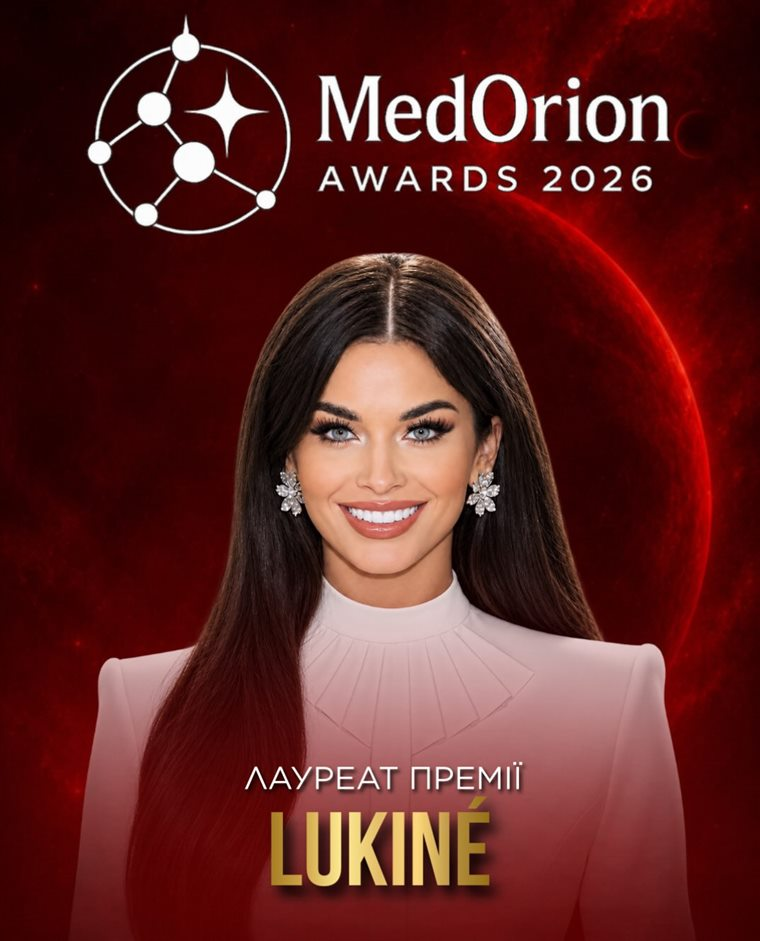
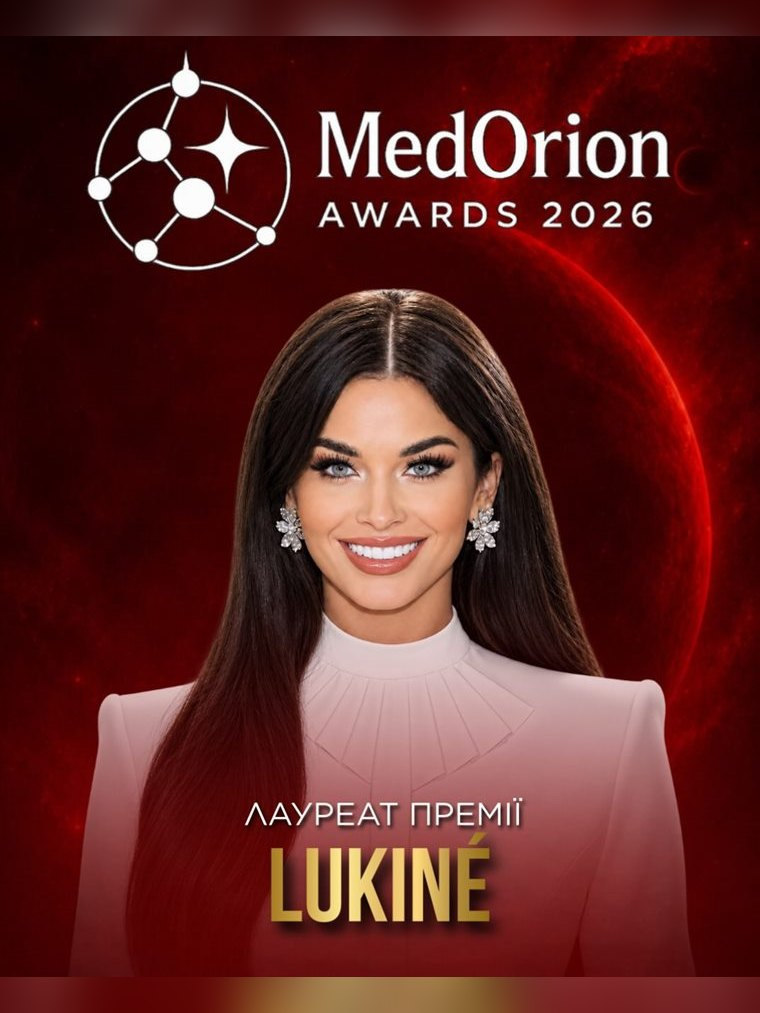
Картки більше не ріжуть імена; Пивоваренко прибрано
Промо-картки мають пропорцію 4:5, а рамка на сайті — 3:4. Різниця
йшла з боків, і в довгих імен, надрукованих на самій картці, зникали
крайні літери: «ЗОЛОТАРЬОВ», «ЧОРНОМОРЕЦ», «РАЄВСЬКИ».

Усі шістнадцять карток (і Ради, і лауреатів) переоформлено під 3:4:
ціла картка лягає всередину без обрізки, а поля згори й знизу
добиваються розмитим збільшенням її ж самої. object-fit тепер не
ріже нічого взагалі.

Тетяну Пивоваренко прибрано: картка, посилання на пост і фото.
Затримки появи решти карток перераховано, щоб не лишилось діри.

diff --git a/index.html b/index.html
@@ -28,7 +28,7 @@
 <link rel="preconnect" href="https://fonts.googleapis.com">
 <link rel="preconnect" href="https://fonts.gstatic.com" crossorigin>
 <link href="https://fonts.googleapis.com/css2?family=Inter:wght@400;500;600;700&display=swap" rel="stylesheet">
-<link rel="stylesheet" href="assets/css/main.css?v=20260901m">
+<link rel="stylesheet" href="assets/css/main.css?v=20260901n">
 
 <script type="application/ld+json">
 {
@@ -608,7 +608,7 @@
     <div class="laureates">
       <article class="lau rv">
         <div class="lau-face" data-key="zolotareva">
-          <img src="assets/img/board/zolotareva.jpg" alt="Валентина Золотарьова" width="760" height="950"
+          <img src="assets/img/board/zolotareva.jpg" alt="Валентина Золотарьова" width="760" height="1013"
                loading="lazy" decoding="async">
         </div>
         <div class="lau-body">
@@ -619,7 +619,7 @@
       </article>
       <article class="lau rv d1">
         <div class="lau-face" data-key="reynolds">
-          <img src="assets/img/board/reynolds.jpg" alt="Тетяна Рейнолдс" width="760" height="950"
+          <img src="assets/img/board/reynolds.jpg" alt="Тетяна Рейнолдс" width="760" height="1013"
                loading="lazy" decoding="async">
         </div>
         <div class="lau-body">
@@ -630,7 +630,7 @@
       </article>
       <article class="lau rv d2">
         <div class="lau-face" data-key="zaruzhko">
-          <img src="assets/img/board/zaruzhko.jpg" alt="Валерія Заружко" width="760" height="950"
+          <img src="assets/img/board/zaruzhko.jpg" alt="Валерія Заружко" width="760" height="1013"
                loading="lazy" decoding="async">
         </div>
         <div class="lau-body">
@@ -641,7 +641,7 @@
       </article>
       <article class="lau rv d3">
         <div class="lau-face" data-key="chernomorets">
-          <img src="assets/img/board/chernomorets.jpg" alt="Анжеліка Чорноморець" width="760" height="950"
+          <img src="assets/img/board/chernomorets.jpg" alt="Анжеліка Чорноморець" width="760" height="1013"
                loading="lazy" decoding="async">
         </div>
         <div class="lau-body">
@@ -652,7 +652,7 @@
       </article>
       <article class="lau rv d4">
         <div class="lau-face" data-key="kosmachova">
-          <img src="assets/img/board/kosmachova.jpg" alt="Єлизавета Космачова" width="760" height="950"
+          <img src="assets/img/board/kosmachova.jpg" alt="Єлизавета Космачова" width="760" height="1013"
                loading="lazy" decoding="async">
         </div>
         <div class="lau-body">
@@ -663,23 +663,12 @@
       </article>
       <article class="lau rv d5">
         <div class="lau-face" data-key="raevskiy">
-          <img src="assets/img/board/raevskiy.jpg" alt="Віталій Раєвський" width="760" height="950"
+          <img src="assets/img/board/raevskiy.jpg" alt="Віталій Раєвський" width="760" height="1013"
                loading="lazy" decoding="async">
         </div>
         <div class="lau-body">
           <div class="lau-name">Віталій Раєвський</div>
           <div class="lau-role">Стоматолог-ортопед, співзасновник Raievskiy Dental Clinic</div>
-          <span class="lau-tag">Експертна рада</span>
-        </div>
-      </article>
-      <article class="lau rv d5">
-        <div class="lau-face" data-key="pivovarenko">
-          <img src="assets/img/board/pivovarenko.jpg" alt="Тетяна Пивоваренко" width="760" height="950"
-               loading="lazy" decoding="async">
-        </div>
-        <div class="lau-body">
-          <div class="lau-name">Тетяна Пивоваренко</div>
-          <div class="lau-role">Авторка блогу для жінок 40+, амбасадорка усвідомленого життя</div>
           <span class="lau-tag">Експертна рада</span>
         </div>
       </article>
@@ -1348,6 +1337,6 @@
   </div>
 </div>
 
-<script src="assets/js/main.js?v=20260901m"></script>
+<script src="assets/js/main.js?v=20260901n"></script>
 </body>
 </html>

diff --git a/assets/js/main.js b/assets/js/main.js
@@ -47,7 +47,6 @@
     'zaruzhko':          'https://www.instagram.com/p/DZfJXOkNVGZ/',
     'chernomorets':      'https://www.instagram.com/p/DZhV-6-NiEi/',
     'raevskiy':          'https://www.instagram.com/p/DZhWzf_Nnas/',
-    'pivovarenko':       'https://www.instagram.com/p/DaChJT_tnvv/',
     'kosmachova':        'https://www.instagram.com/p/Dcv4ebMNKt3/'
   };
 
